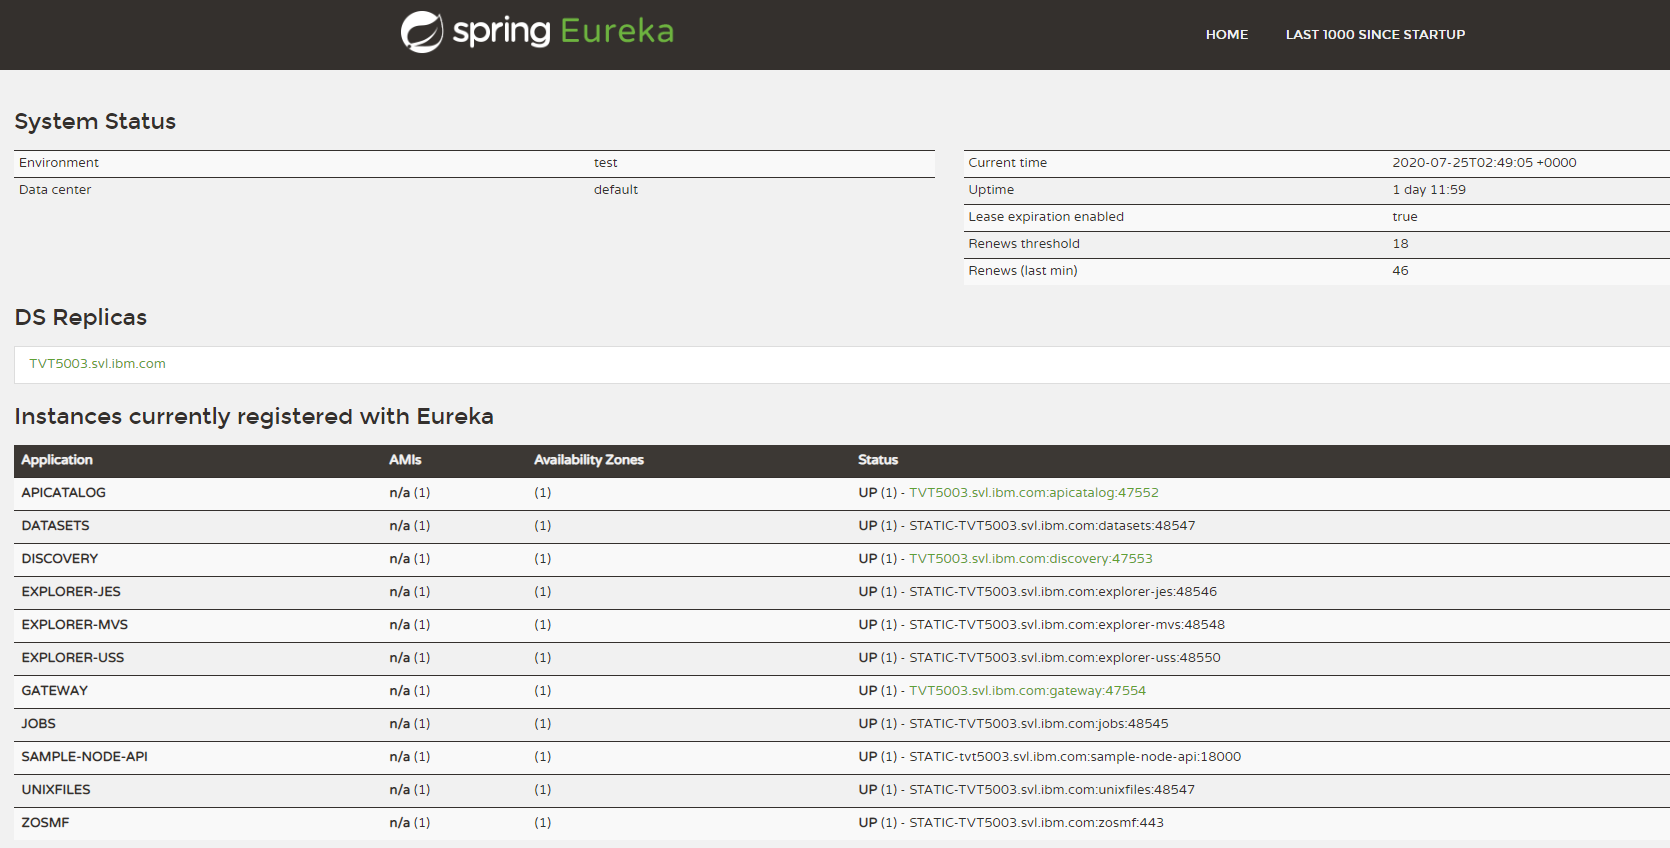
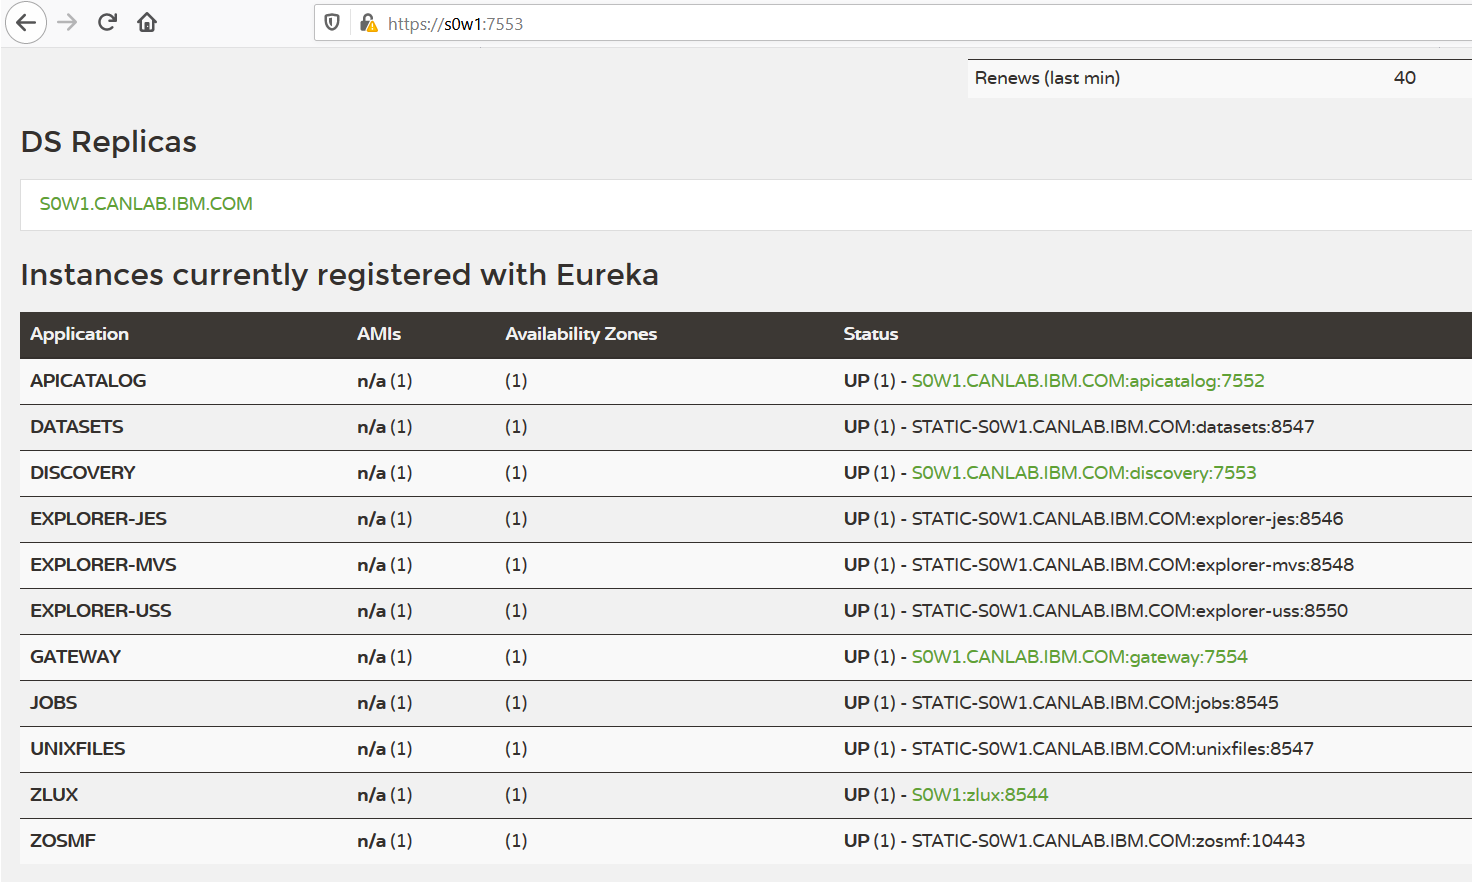
more changes

diff --git a/src/routes/index.route.js b/src/routes/index.route.js
@@ -19,7 +19,7 @@ router.use('/cars', cars);
 router.use('/accounts', accounts);
 router.use('/', swagger);
 
-router.get('/', (req, res) => res.send('Hello World!'));
+router.get('/', (req, res) => res.send('Sample Node API'));
 router.get('/health', (req, res) => {
   const healthcheck = {
 		uptime: process.uptime(),

diff --git a/src/config.js b/src/config.js
@@ -70,7 +70,7 @@ function setUpParams() {
     .option('p', {
     alias: 'port',
     description: 'listening port',
-    default: 8080
+    default: 18000
     })
     .option('k', {
     alias: 'key',

diff --git a/troubleshooting.md b/troubleshooting.md
@@ -1,0 +1,65 @@
+
+# How do we know zowe retarted succesfully?
+
+1 : check in browser    
+![API Mediation](./screenshots/API_Mediation.png)
+https://s0w1:7554    
+https://s0w1:7554/ui/v1/apicatalog/ - try login and check
+
+2: Check if all services are up or not
+Zowe listen on 10 ports 
+  - 8542, 8544, 8546, 8548, 8550 - these five start much earlier
+  - 8545, 8547, 7552, 7553, 7554 - these five are java services - takes over 20 mins to restart
+Login to zowe and check all open ports:
+```
+ssh s0w1
+onetstat -a | grep Listen
+```
+
+you will see 10 open ports
+![zowe Services Ports](./screenshots/Zowe_Services_Ports.png)
+
+3. Eureka Discovery Service Dashboard has 11 running services
+![zowe discovery service](./screenshots/DiscoveryService_Dashboard.png)
+
+4. Open Jes Explorer
+filter on owner - ZWE*
+```
+#1 zss service started
+ZWES1013I ZSS Server has started. Version '1.13.0+20200623'
+
+#2 - JES Explorer UI
+[JES] is started and listening on 8546...
+
+#3 USS Explorer UI
+[USS] is started and listening on 8550...
+
+#4 MVS Explorer UI
+[MVS] is started and listening on 8548...
+
+#5 ZLUX
+2020-08-10 06:26:49.307 <ZWED:66510> ZWESVUSR INFO (_zsf.install,index.js:340) ZWED0031I - Server is ready at https://0.0.0.0:8544, Plugins successfully loaded: 100% (20/20)
+
+# 6 JobsAPI service is up
+2020-08-10 06:40:53.432 <ZWEEAJ1:main:66500> ZWESVUSR INFO  (o.z.j.JesJobsApplication,StartupInfoLogger.java:59) Started JesJobsApplication in 872.68 seconds (JVM running for 1056.269)
+
+#7 Datasets and Files API service is up
+2020-08-10 06:41:13.974 <ZWEEAD1:main:66496> ZWESVUSR INFO  (o.z.DataSetsAndUnixFilesApplication,StartupInfoLogger.java:59) Started DataSetsAndUnixFilesApplication in 906.562 seconds (JVM running for 1073.875)
+
+#8 Discovery Service is up
+
+2020-08-10 06:44:33.386 <ZWEADS1:main:66493> ZWESVUSR INFO  (o.z.a.p.s.ServiceStartupEventHandler) ZWEAM000I Discovery Service has been started in 1275.604 seconds
+
+#9 Catalog service is up
+
+2020-08-10 06:45:34.765 <ZWEAAC1:main:66497> ZWESVUSR INFO  (o.z.a.p.s.ServiceStartupEventHandler) ZWEAM000I API Catalog Service has been started in 1336.094 seconds
+
+#10 Gateway service is up
+
+2020-08-10 06:45:43.711 <ZWEAGW1:main:66498> ZWESVUSR INFO  (o.z.a.p.s.ServiceStartupEventHandler) ZWEAM000I Gateway Service has been started in 1344.318 seconds
+
+# 11 zlux eureka registeration with API ML
+
+2020-08-10 06:57:29.815 <ZWED:66510> ZWESVUSR INFO (_zsf.apiml,apiml.js:218) ZWED0021I - Eureka Client Registered from 127.0.0.1. Available at https://S0W1.CANLAB.IBM.COM:7553/ui/v1/zlux/
+ZWED5019I - Started
+```

diff --git a/README.md b/README.md
@@ -2,12 +2,7 @@
 A sample node js api for finding cars and accounts for a dealership,its used here to demonstrate the steps to extend API/ML with your own rest api.     
 
 ## Steps
-
-**Note**  
-`Only rest api with https support can be deployed behind API/ML, make sure to enable https support in your rest api.
-`   
-This sample express app, has https enabled already.    
-
+  
 ## PART I: Download & Build on local
 
 ### 1) Clone the repository, install node packages  and verify routes locally
@@ -17,23 +12,21 @@ This sample express app, has https enabled already.
 git clone https://github.com/zowe/sample-node-api
 cd sample-node-api
 npm install
-npm start
+npm run dev
 ```
 
 Open your local browser and try accessing     
-`https://localhost:4000/accounts/`   
-`https://localhost:4000/accounts/1`   
-`https://localhost:4000/accounts/1/cars/`   
+`http://localhost:18000/accounts/`   
+`http://localhost:18000/accounts/1`   
+`http://localhost:18000/accounts/1/cars/`   
 
 
 ### 2) Transfer project files from local to remote host
 
-**Note**  
-Don't transfer `node_modules` folder, we can do install npm install later on remote server itself to pull down required node packages
 
 ```
 cd sample-node-api
-npm run build
+npm run dist
 scp -r dist ibmuser@my.mainframe.com:</usr/lpp/extender>/sample-node-api
 ```
 
